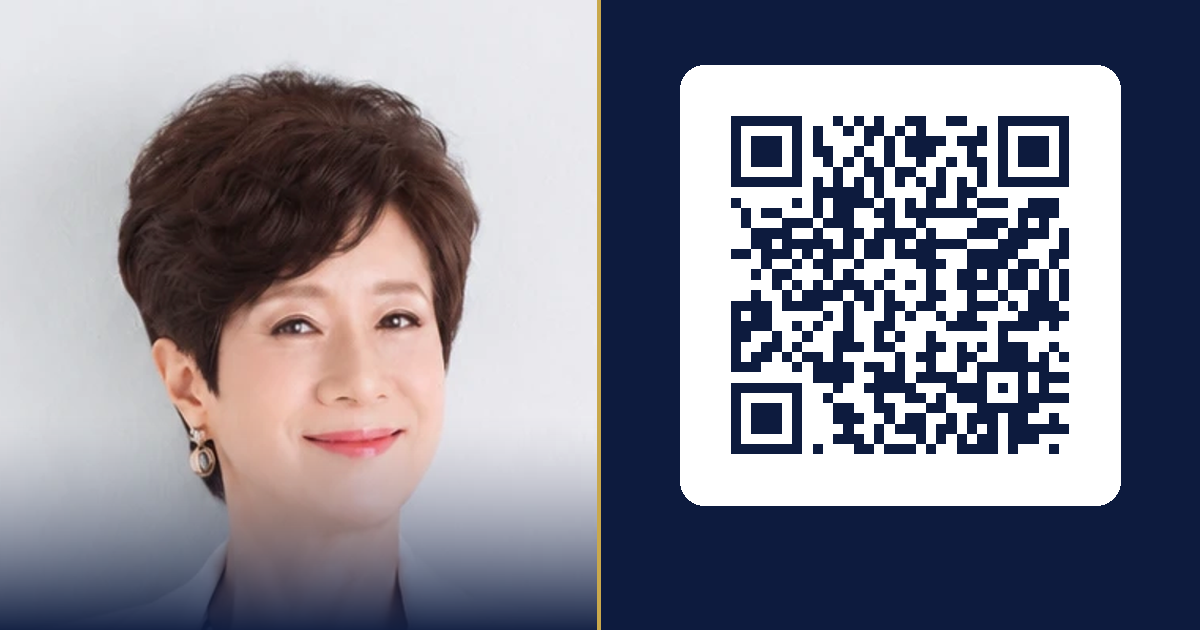
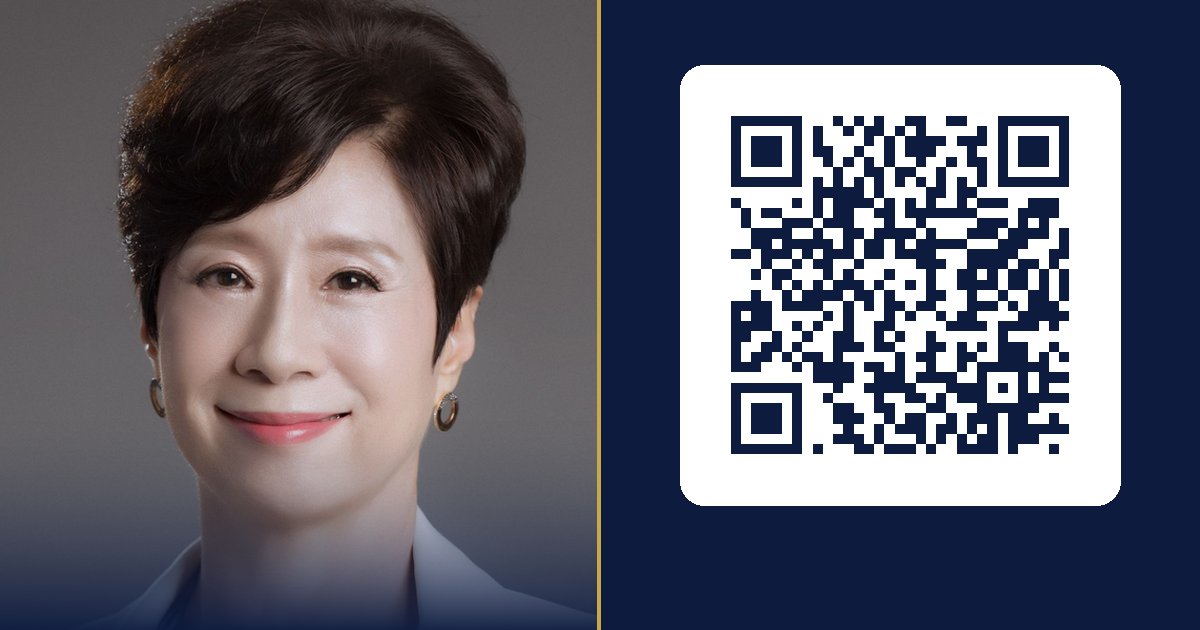
마미란 비즈홈: 프로필 사진 교체, 한자 이름(馬美蘭/马美兰) 반영, OG 재생성
Claude-Session: https://claude.ai/code/session_0134fGm4BDvYG8epBjWFwQAL

diff --git a/마미란/index.html b/마미란/index.html
@@ -339,8 +339,8 @@ footer .slogan-footer { font-size: 11px; color: var(--muted-dark); letter-spacin
     <div class="hero-name">
       <span data-lang="kr" class="active">마 미 란</span>
       <span data-lang="en">MA MIRAN</span>
-      <span data-lang="jp">マ・ミラン</span>
-      <span data-lang="cn">MA MIRAN</span>
+      <span data-lang="jp">馬 美蘭（マ・ミラン）</span>
+      <span data-lang="cn">马 美兰</span>
     </div>
     <div class="hero-title">
       <span data-lang="kr" class="active">다이아몬드 · 유니시티코리아</span>
@@ -357,7 +357,7 @@ footer .slogan-footer { font-size: 11px; color: var(--muted-dark); letter-spacin
     <img src="profil.png" alt="마미란">
   </div>
   <div class="profile-info">
-    <h2>마미란 · MA MIRAN</h2>
+    <h2>마미란 · 馬美蘭 · MA MIRAN</h2>
     <p>
       <span data-lang="kr" class="active">건강 솔루션 · 물리치료 20년 · 글로벌 비즈니스</span>
       <span data-lang="en">Health solutions · 20 years in physical therapy · Global business</span>
